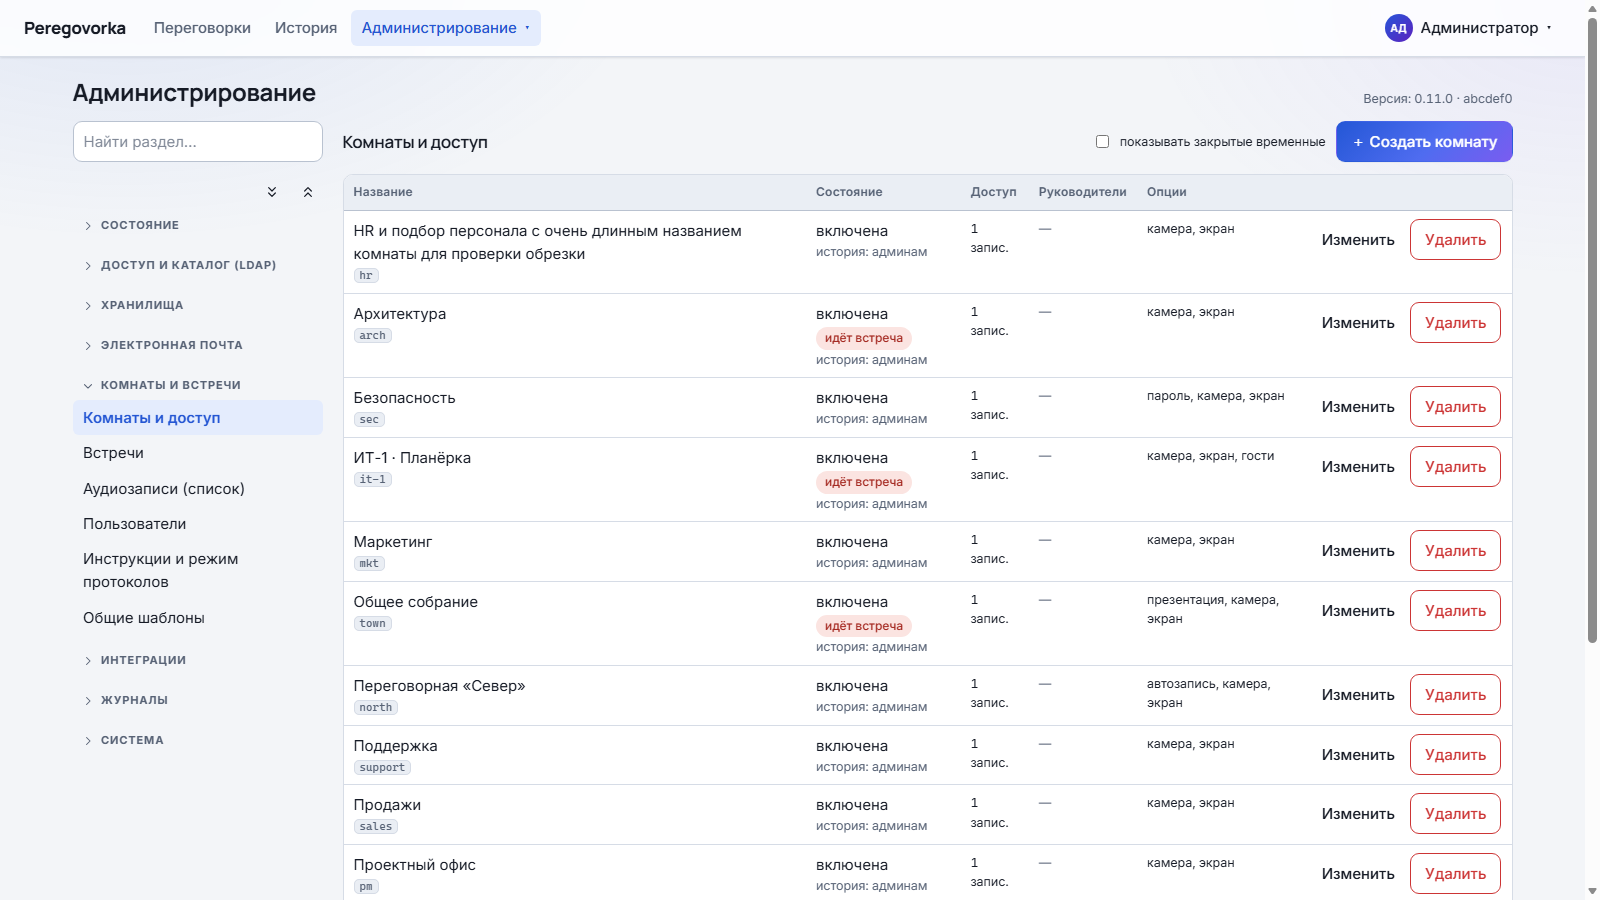
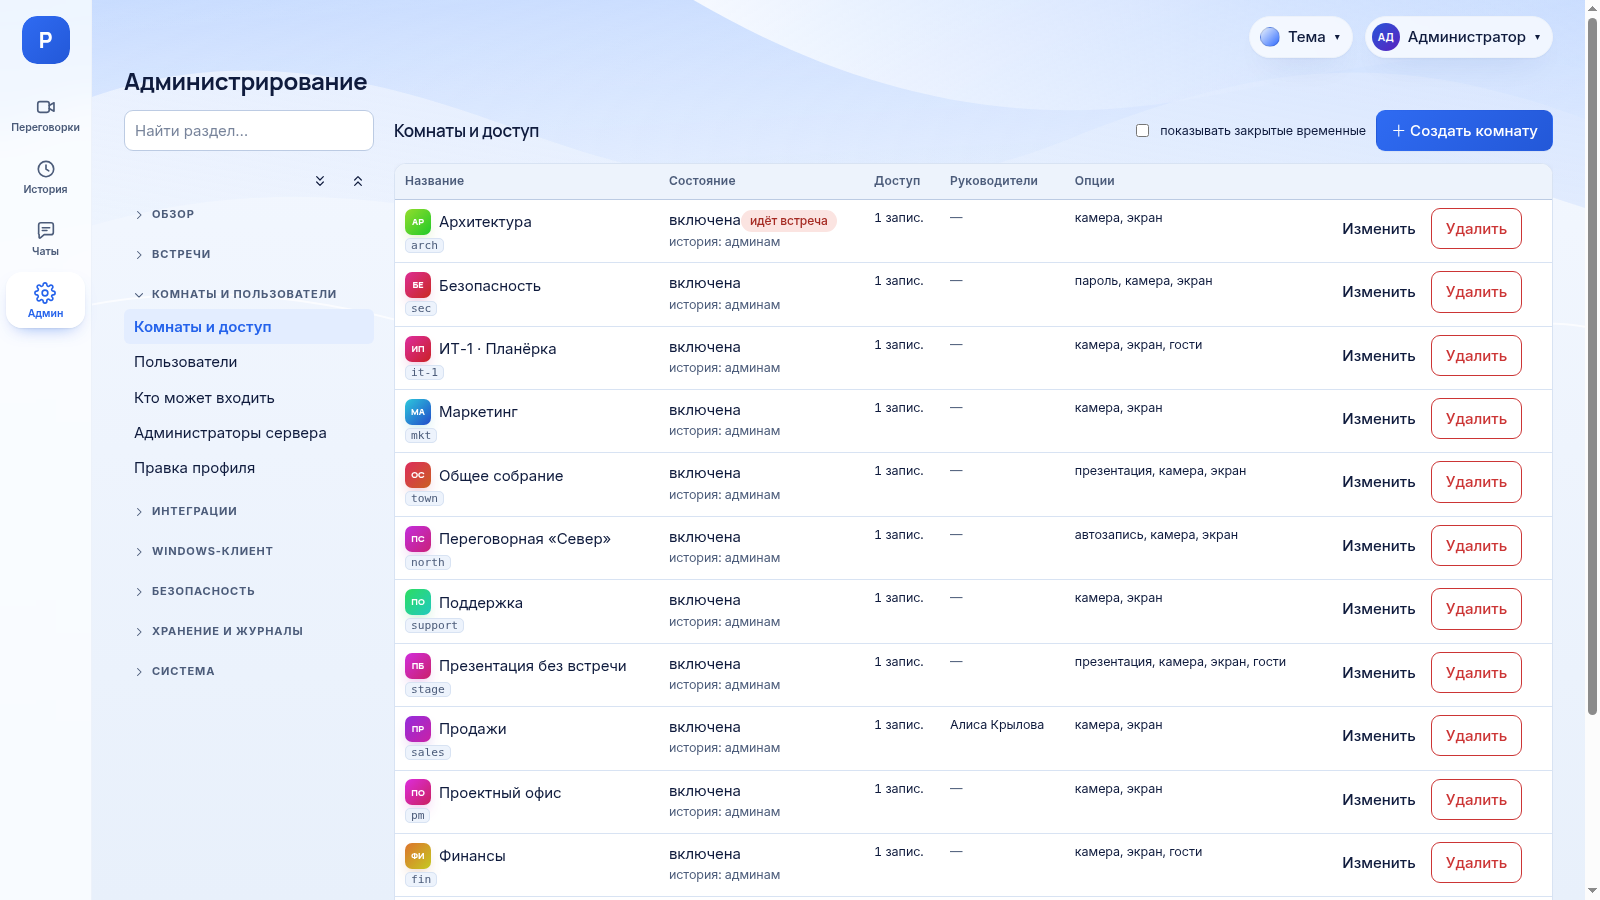
Подготовка выпуска 0.39.0: снимки README, ревизия компонентов (DEP-9), записи об изменениях

diff --git a/tests/live/shots_readme.py b/tests/live/shots_readme.py
@@ -19,6 +19,10 @@ navigator.mediaDevices.getDisplayMedia = async function () {
 };
 """
 
+# на общем стенде остаются комнаты от других сценариев (длинные названия, значки) и служебная строка версии: для витрины их не показываем
+HIDE = """document.querySelectorAll('.rc-cell,tbody tr,.rm').forEach(e=>{if(/подбор персонала|Значковая|icon-room/.test(e.textContent))e.style.display='none'});
+[...document.querySelectorAll('div,span,p,small')].filter(e=>e.children.length===0&&/^Версия: /.test(e.textContent.trim())).forEach(e=>e.style.display='none')"""
+
 def save(name, data):
     os.makedirs(OUT, exist_ok=True)
     open(os.path.join(OUT, name), "wb").write(base64.b64decode(data))
@@ -62,7 +66,13 @@ async def main():
         await A.goto("/admin?tab=rooms", 3.5)
         await A.wait_for("document.querySelectorAll('table tbody tr').length>=5", 20)
         await A.js("[...document.querySelectorAll('button')].filter(b=>b.textContent.trim()==='Понятно').forEach(b=>b.click())")
+        await A.js(HIDE)
         await shot(A, "admin.png", 1600, 900)
+        await A.goto("/", 3.5)
+        await A.wait_for("document.querySelectorAll('.rc').length>=3", 20)
+        await A.js("[...document.querySelectorAll('button')].filter(b=>b.textContent.trim()==='Понятно').forEach(b=>b.click())")
+        await A.js(HIDE)
+        await shot(A, "rooms.png", 1600, 900)
         print("снимки:", os.path.abspath(OUT))
     finally:
         for c in (A, B, C): await c.close()

diff --git a/PROJECT.md b/PROJECT.md
@@ -218,6 +218,7 @@ silero-vad, torch; frontend: React 19, React Router 7, Vite 8, TypeScript 7, Vit
 
 ## 7. Известные ограничения и непроверенное
 
+- **Редизайн «Стекло» (сервер 0.39.0, клиент 1.2.0, 2026-10-25):** проверено запуском — снимки 1366/390 px в тёмной и пастельных темах, оболочка Electron, сценарии float_close 20/20, room_icons 23/23, desktop_fixes 16/16, frontend 463 теста, CI ветки (включая предварительную сборку на Windows). **Не проверено:** `scenario_upcoming` (создание встречи через API надстройки падает на стенде — связь с правками не выяснена), `scenario_chats` полностью (непрочитанные на стенде), блок «Предстоящие встречи» глазами, контраст пастельных тем численно, настоящий Windows глазами.
 - **Исправления клиента Windows (сервер 0.38.1, клиент 1.1.1, 2026-10-25):** проверено запуском — `tests/live/desktop_fixes.py` (16 из 16), `scenario_float_close.py` (20 из 20), автозапуск по умолчанию и запись `HKCU\…\Run` — в CI на Windows. **Не проверено:** (1) причина «не показываются загруженные значки комнат» не воспроизведена ни на HTTP, ни за боевым nginx/HTTPS, ни при двух организациях — добавлены запасной значок и журнал `page.image_failed`, нужна запись из журнала на сервере владельца; (2) диктовка: цепочка клиента в Electron подтверждена со стендовой подставной службой ASR, настоящий GigaAM на Windows не проверялся, вероятная причина обрыва — `devicechange` в Windows (исправлено), без подтверждения на Windows; (3) занятый или недоступный ASR в клиенте не проверялся; (4) существующий профиль с отключённым автозапуском — только модульный тест.
 
 - **Канал обновления и внешний reverse proxy (0.18.2, ветка `fix/install-proxy-updater`):** установка по релизному тегу (HEAD отсоединён) обновляется по самому новому тегу `vX.Y.Z`, ветка с upstream — по upstream, HEAD на обычном commit — остановка без изменений (`upd_head_release_tag`, `upd_release_target`, `upd_check_commit` в `scripts/lib/updatelib.sh`; их же используют `update.sh`, `updater.sh`, `check-updates.sh`, `rollback.sh`). Список разрешённых Origin — `APP_PUBLIC_URL` + `ALLOWED_ORIGINS` ([DEPLOYMENT.md](DEPLOYMENT.md) §3.2). Проверено запуском: shell-части `part_release_channel.sh`, `update.sh --dry-run` и `updater.sh check` на клонах формата установщика (полный и мелкий `--depth 1`), pytest по auth/реестру/состоянию помощника. **Не проверено:** настоящее обновление (не dry-run) установки по тегу с Docker; кнопка «Обновить» из браузера на такой установке; реальный внешний reverse proxy; полный прогон shell-набора (локально на Windows не запускается — только CI).

diff --git a/README.md b/README.md
@@ -28,7 +28,7 @@
 | 🔌 **API** | публичный API, события (webhooks), фоновое формирование документов |
 | 🏢 **Active Directory и Bitrix24** | вход доменной учётной записью, доступ по группам, профили сотрудников с портала |
 | ☎ **SIP** | звонок с телефона во встречу и из встречи на телефон через вашу АТС |
-| 🎨 **Свой вид** | название, логотип, цвета, документы и контакты вашей организации — через браузер; темы для пользователей |
+| 🎨 **Свой вид** | название, логотип, цвета, документы и контакты вашей организации — через браузер; оформление «Стекло» по умолчанию и темы на выбор у каждого пользователя |
 | 🖥 **Приложение для Windows** | несколько организаций сразу, трей и уведомления Windows, вход без пароля после перезагрузки, ссылки на встречи открываются в приложении; EXE и MSI с групповыми политиками |
 | 🔒 **Self-hosted и безопасность** | данные на вашем сервере, журнал аудита, права проверяет сервер |
 | 📈 **Масштаб** | 2000 одновременных пользователей на сервере приложения 8 vCPU (4 процесса); падение процесса, перезапуск Redis и кратковременная недоступность базы — без ошибок у участников; медиасервер — по расчёту ([нагрузка и расчёт](docs/DB_AND_SCALING.md)) |
@@ -71,7 +71,7 @@ sudo ./install.sh
 
 ## Скриншоты
 
-<img src="docs/img/admin.png" alt="Администрирование: комнаты и доступ" width="900">
+<img src="docs/img/rooms.png" alt="Переговорки: левая панель разделов, поиск, фильтры, плитка карточек комнат в оформлении «Стекло»" width="900">
 
 <sub>Снимки сделаны на тестовом стенде с вымышленными данными.</sub>
 

diff --git a/CHANGELOG.md b/CHANGELOG.md
@@ -10,6 +10,9 @@
 - **Левая панель разделов с иконками:** «Переговорки», «История», «Чаты» (со счётчиком непрочитанных) и «Администрирование» (быстрые разделы). На телефоне она становится нижней полосой. Во время встречи остаётся прежняя верхняя панель — разделы открываются в новой вкладке, и встреча не прерывается.
 - **Раздел «Переговорки» переработан:** крупный заголовок, заметная строка поиска (быстрый вызов — Ctrl+K), фильтры-чипы со счётчиками («Все», «Предстоящие», «Постоянные», «Идёт встреча», «Свободные»), переключатель «Плитка / Список», кнопка «Временная переговорка» как главное действие. Карточка комнаты: значок, название, статус, описание, возможности (стенограмма, запись, презентация), предел участников и кнопка «Войти». Второстепенные действия убраны в аккуратную кнопку «⋯» (гостевая ссылка, управление, настройки) и кнопку «Скопировать ссылку»; красная кнопка гостевой ссылки больше не стоит рядом с обычной. Режим «Список» показывает те же данные в одну плотную строку.
 
+### Для администраторов
+- Миграций и новых параметров нет. Тема по умолчанию теперь «Стекло»: если в «Администрирование → Оформление сайта» тема не закреплена, пользователи, у которых нет своего выбора, увидят новое оформление; ранее выбранные личные темы сохраняются. Закрепить прежний вид можно там же.
+
 ## 0.38.1 (2026-10-25)
 
 ### Улучшения

diff --git a/desktop/CHANGELOG.md b/desktop/CHANGELOG.md
@@ -2,6 +2,12 @@
 
 Версии клиента независимы от версий сервера (совместимость — по протоколу приложения). Нужен сервер Peregovorka 0.37.0 или новее.
 
+## 1.2.0
+
+### Новые возможности
+- **Новое оформление «Стекло»:** светлый воздушный интерфейс с мягкими волнами и полупрозрачными панелями — и в окнах организаций, и в самой оболочке приложения (приветствие, настройки, вкладки организаций). Выбрать другую тему можно в «Личный кабинет → Оформление» или кнопкой «Тема» вверху справа; режим «как в Windows» работает по-прежнему.
+- Слева — панель разделов: «Переговорки», «История», «Чаты» и «Администрирование»; список переговорок переключается между плиткой и списком, есть поиск и фильтры. Оформление и разделы те же, что в браузере (нужен сервер Peregovorka 0.39.0 или новее; с более ранним сервером приложение работает по-прежнему).
+
 ## 1.1.2
 
 ### Улучшения
